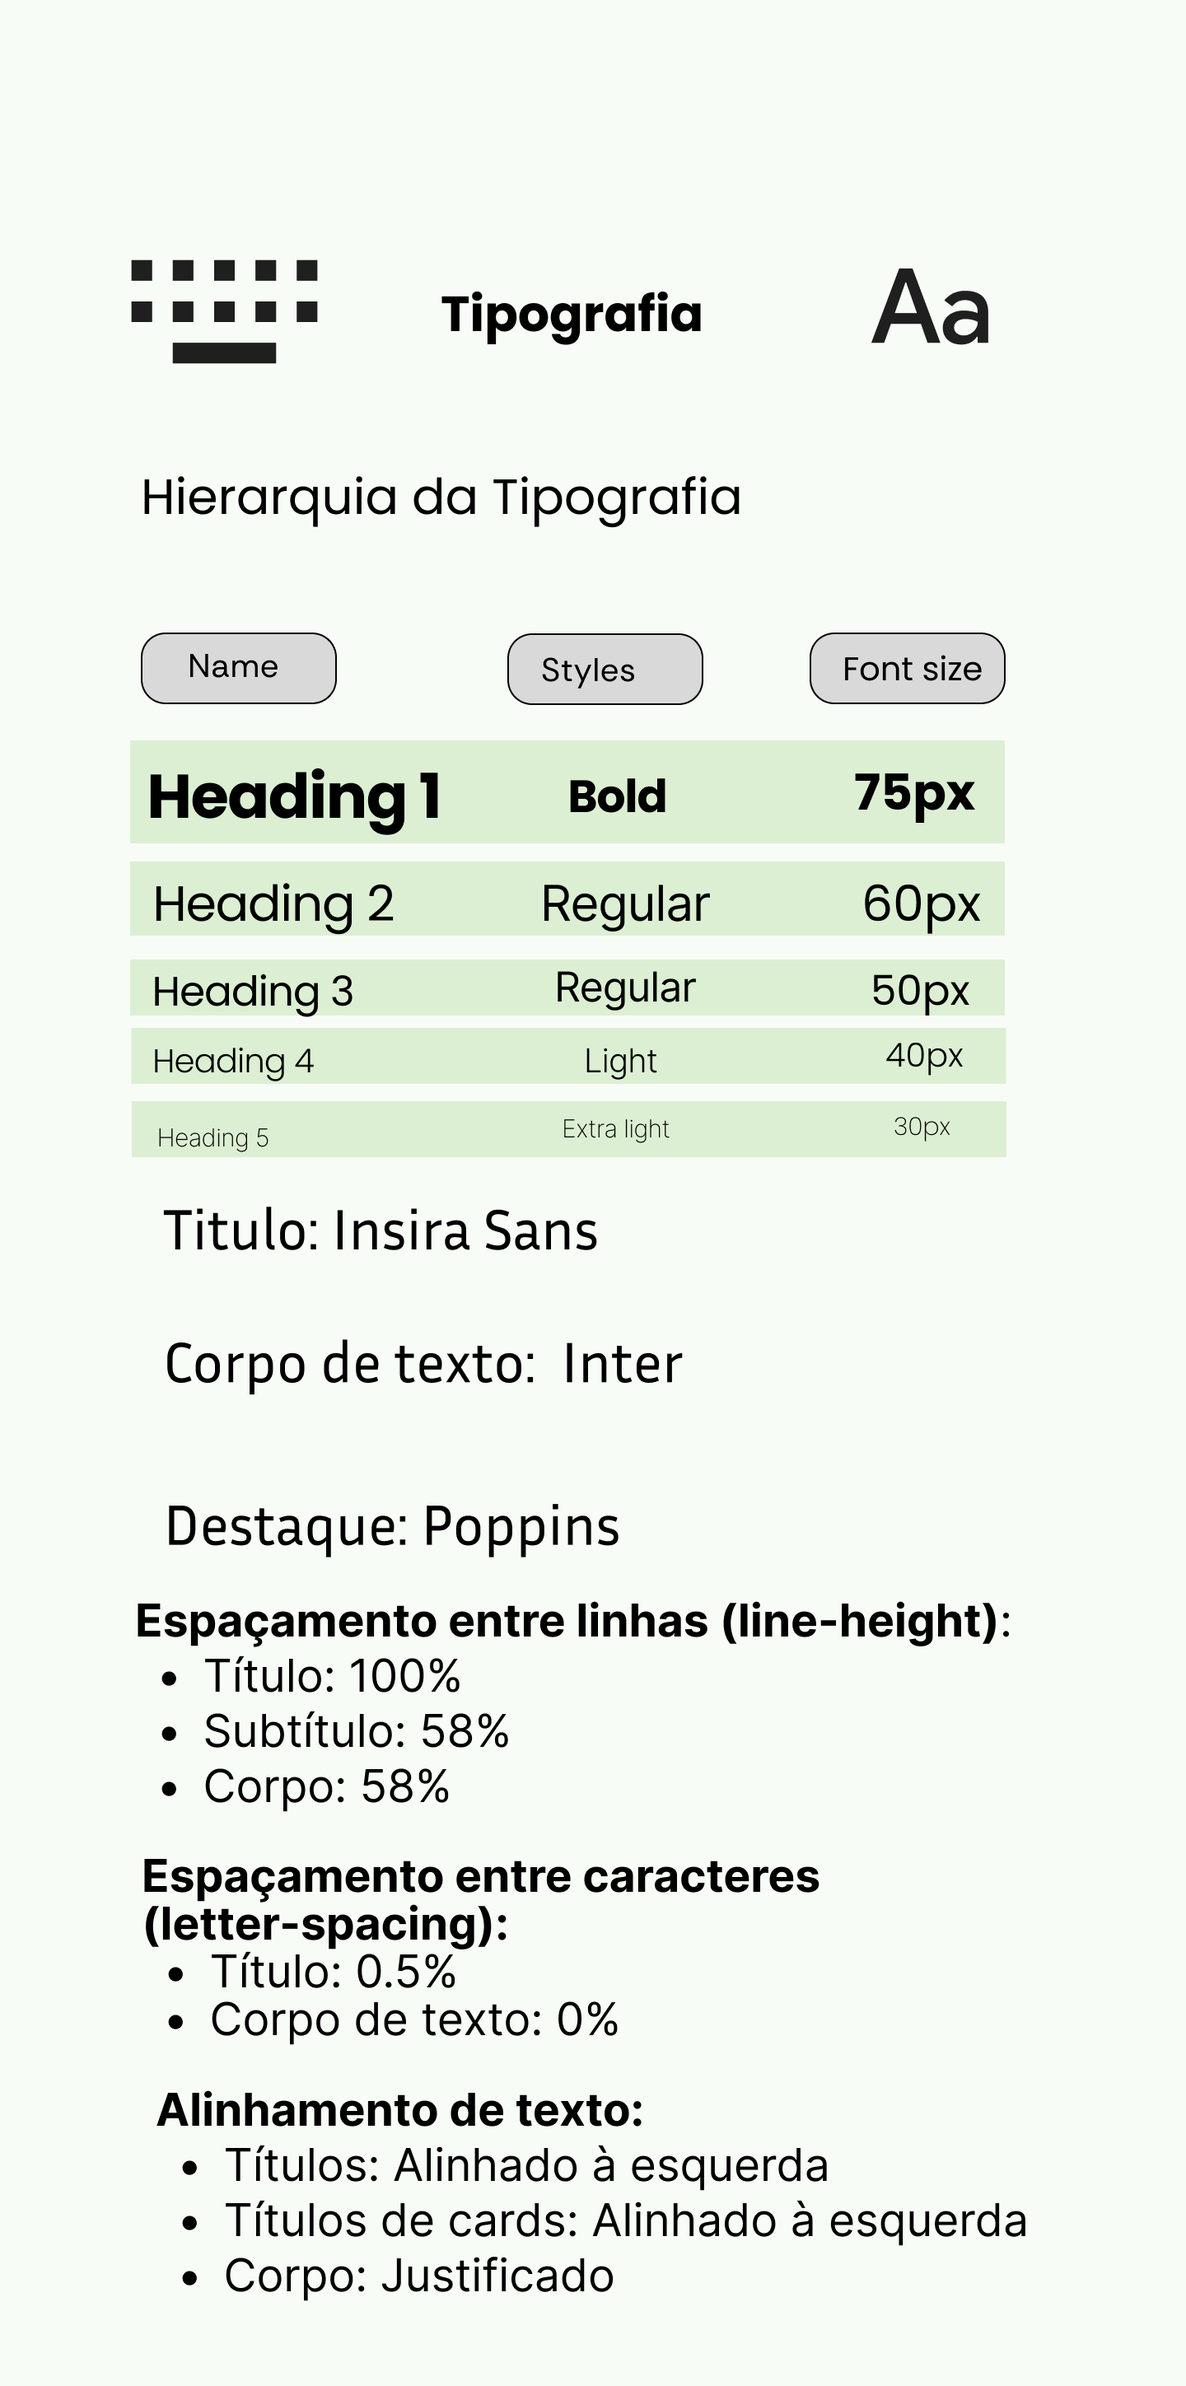
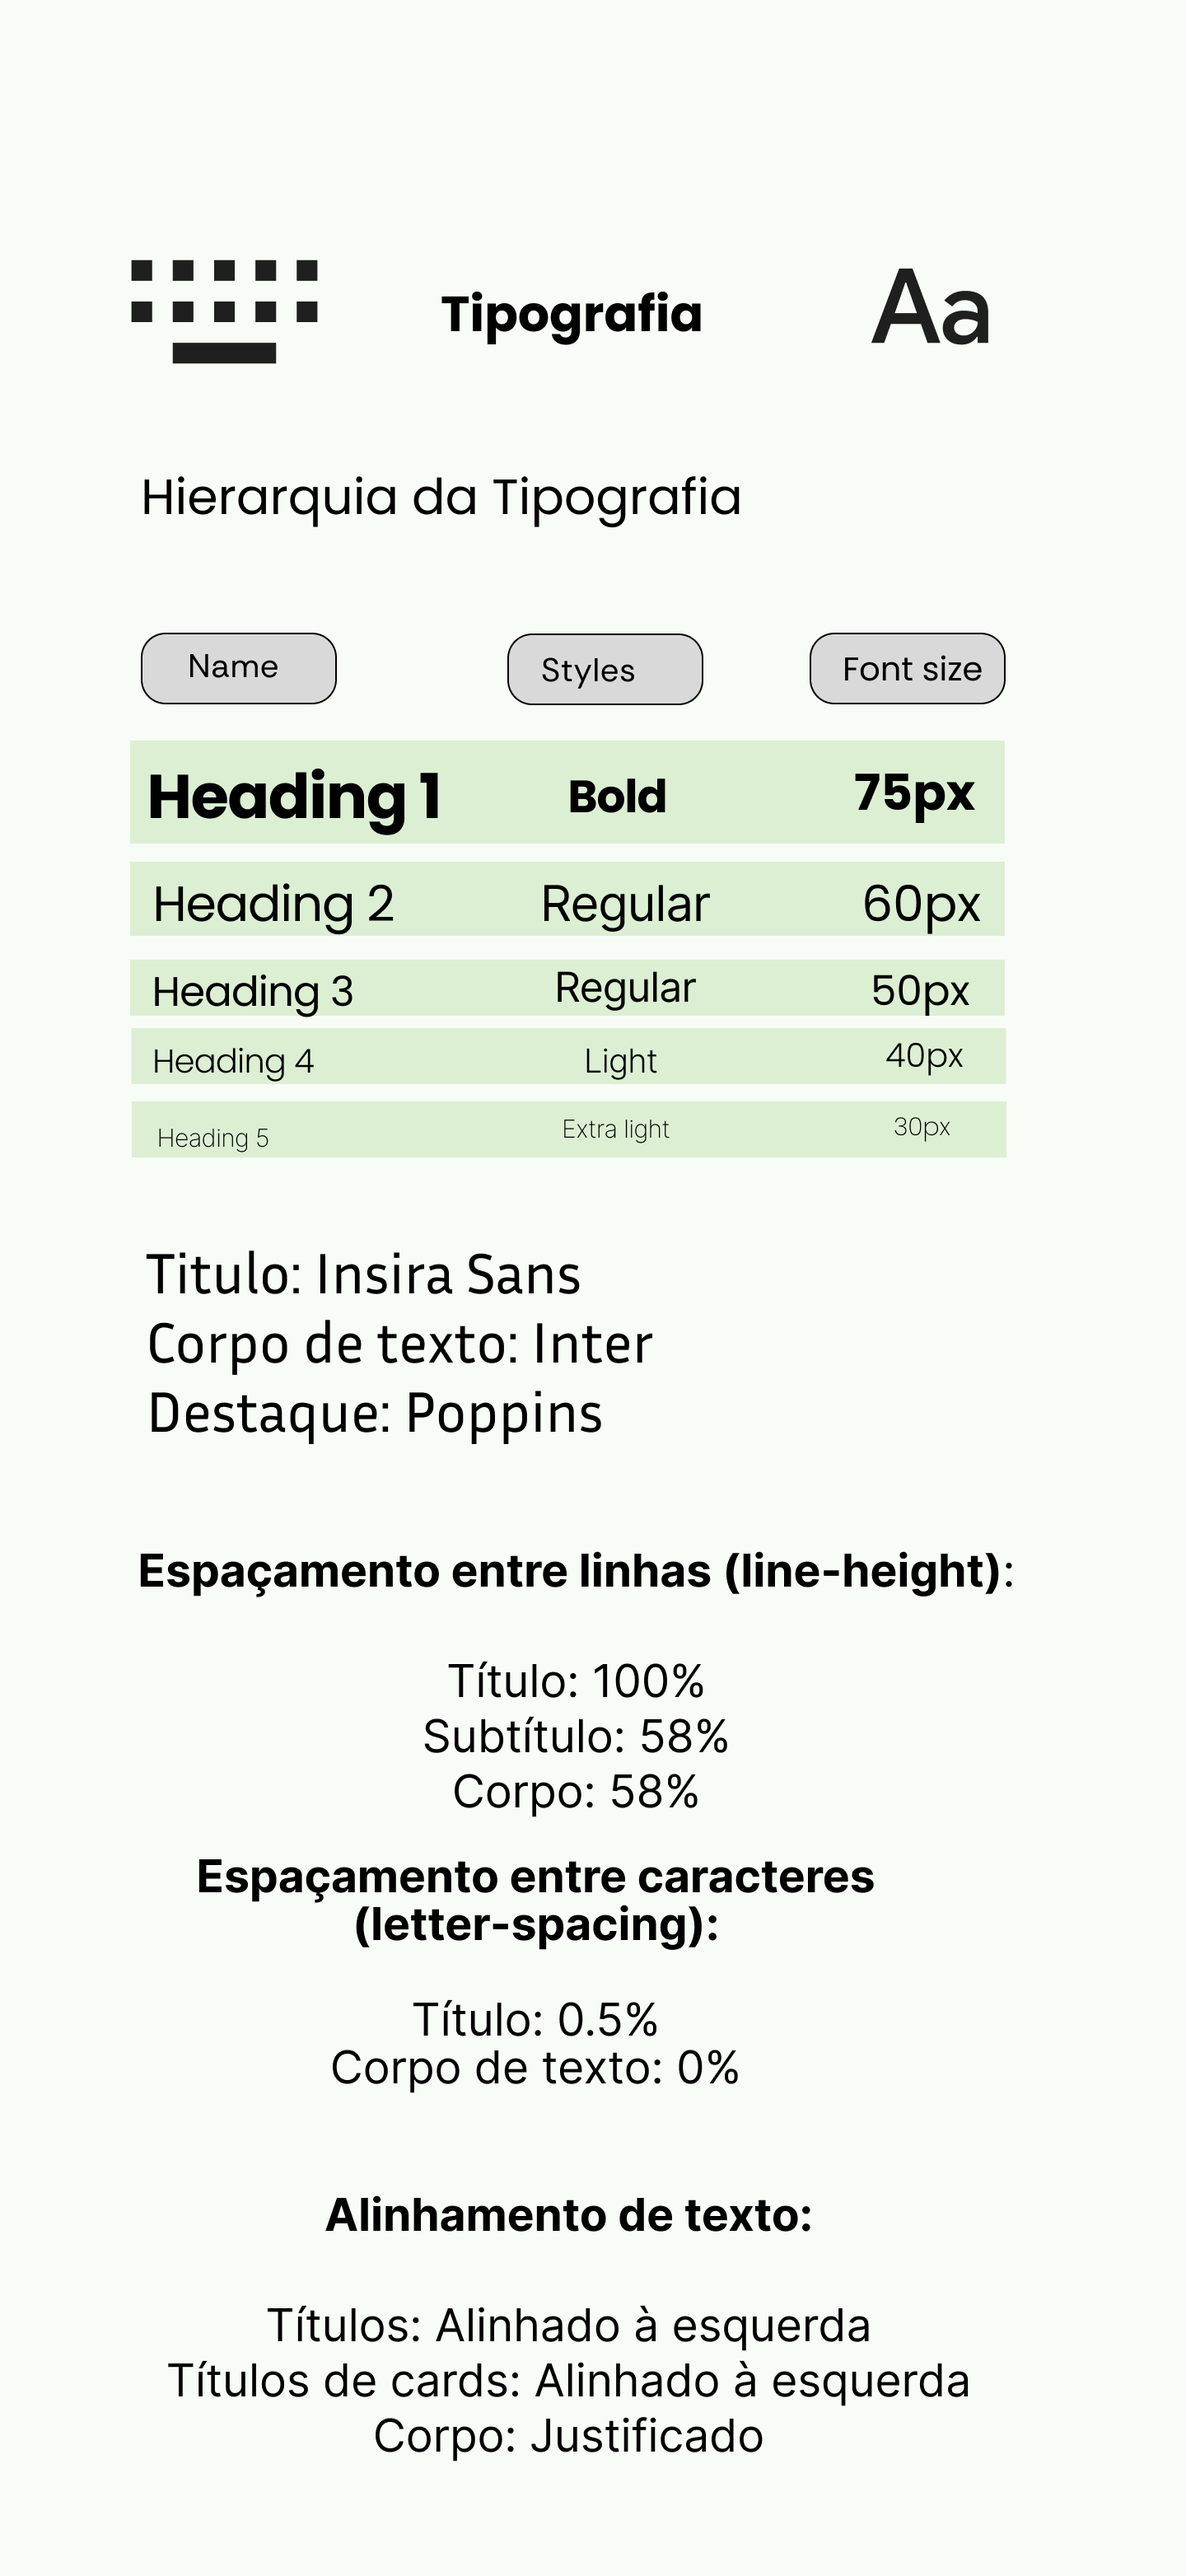
docs, organização estética.
Atualização das fotos.

diff --git a/documents/wad.md b/documents/wad.md
@@ -475,18 +475,16 @@ Tela | Recursos | User Story
 
 &nbsp;&nbsp;&nbsp;&nbsp; Em suma, o Guia de Estilos serve como referência oficial para todos os envolvidos no projeto, garantindo consistência visual, clareza de comunicação e aplicação correta dos elementos da marca.  <br>
 
+![alt text](../assets/assets_wad/Grid.png)
+
+
 ### 3.3.1 Cores
 
 &nbsp;&nbsp;&nbsp;&nbsp; A paleta de cores de um projeto consiste no conjunto de cores previamente selecionadas para representar visualmente a identidade do produto digital em todos os seus elementos gráficos e funcionais. Essa paleta inclui cores primárias, secundárias, de destaque e de fundo, que devem ser utilizadas de forma sistemática em interfaces, componentes, textos e elementos de navegação. Seu propósito é assegurar uniformidade visual, fortalecer a comunicação da marca e facilitar a percepção do usuário ao interagir com o sistema. <br>
 
 &nbsp;&nbsp;&nbsp;&nbsp; A adoção de uma paleta de cores bem estruturada e alinhada entre os designers e a equipe de desenvolvimento front-end é essencial para garantir coerência estética e funcionalidade técnica. Em ambientes colaborativos, especialmente no contexto de projetos acadêmicos baseados em metodologias ágeis, essa padronização contribui para a consistência visual entre protótipos e implementações, reduz retrabalho, otimiza a comunicação entre os membros da equipe e assegura a acessibilidade por meio de contrastes adequados. A padronização cromática ainda reforça a identidade do produto, tornando-o mais reconhecível e profissional perante os usuários. <br>
 
-<div align = "center">
-<sup>Figura 8: Tipografia </sup><br>
-<img src="![alt text](<../assets/assets_wad/Paleta de cores.png>)"> 
-
-<sup>Fonte: Material produzido pelos autores (2025).</sup><br>
-</div>
+![alt text](../assets/assets_wad/Paleta_cores.png)
 
 Recomendação Aplicada| Nome da cor | Hex | Função 
 ---| --- | --- | ---
@@ -507,11 +505,8 @@ Texto para fundos escuros ou botões | aaa |  coloridos fortes. | |
 
 &nbsp;&nbsp;&nbsp;&nbsp;  A tipografia é um elemento essencial na construção da identidade visual de uma interface. Ela influencia diretamente na legibilidade e na percepção da marca. Em um guia de estilos, a definição tipográfica deve incluir as famílias tipográficas utilizadas (ex: sans-serif ou serif), tamanhos, pesos (light, regular, bold), espaçamentos (entre letras e linhas) e hierarquia de títulos (H1, H2, H3 etc.) e parágrafos. <br>
 
-![](../assets/assets_wad/Tipografia.png)
-<img src=
+![assets/assets_wad/Tipografia.png](../assets/assets_wad/Tipografia.png)
 
-<sup>Fonte: Material produzido pelos autores (2025).</sup><br>
-</div>
 
 &nbsp;&nbsp;&nbsp;&nbsp;   É fundamental garantir contraste suficiente entre texto e fundo para atender critérios de acessibilidade. A padronização tipográfica no guia de estilos contribui para a coesão visual em todos os materiais da marca ou produto digital. <br>
 
@@ -528,11 +523,11 @@ Texto para fundos escuros ou botões | aaa |  coloridos fortes. | |
 
 <br>
 
-#### Barra de Navegação Mobile
+#### Icons Mobile
 
 Icone | Funcionalidade | 
---- | ---|
-Colheita | Acessa informações e registros sobre colheitas realizadas, facilitando o controle de produção. |
+ --- | ---|
+ Colheita | Acessa informações e registros sobre colheitas realizadas, facilitando o controle de produção. |
 Boas Práticas | Exibe dicas, orientações e conteúdos educativos para melhorar processos e resultados. |
 Perfil | 	Permite visualizar e editar dados pessoais e preferências do usuário. |
 Plantio| Gerencia informações sobre o plantio, como datas, áreas e culturas cultivadas. |
@@ -540,9 +535,9 @@ Mapas e dados | 	Mostra mapas interativos e dados georreferenciados para anális
 Data inbox e integração| Centraliza dados recebidos e integrações com outros sistemas ou dispositivos. |
 <br>
 
-#### Barra de Navegação Desktop
+#### Icons Desktop
 
-png| Icone | Funcionalidade | 
+ Icone | Funcionalidade | 
  --- | ---|
 Perfil | Visualiza e edita dados do usuário, foto e configurações pessoais.|
 Barra de Navegação | Abre/fecha o menu lateral de navegação do sistema. | 
